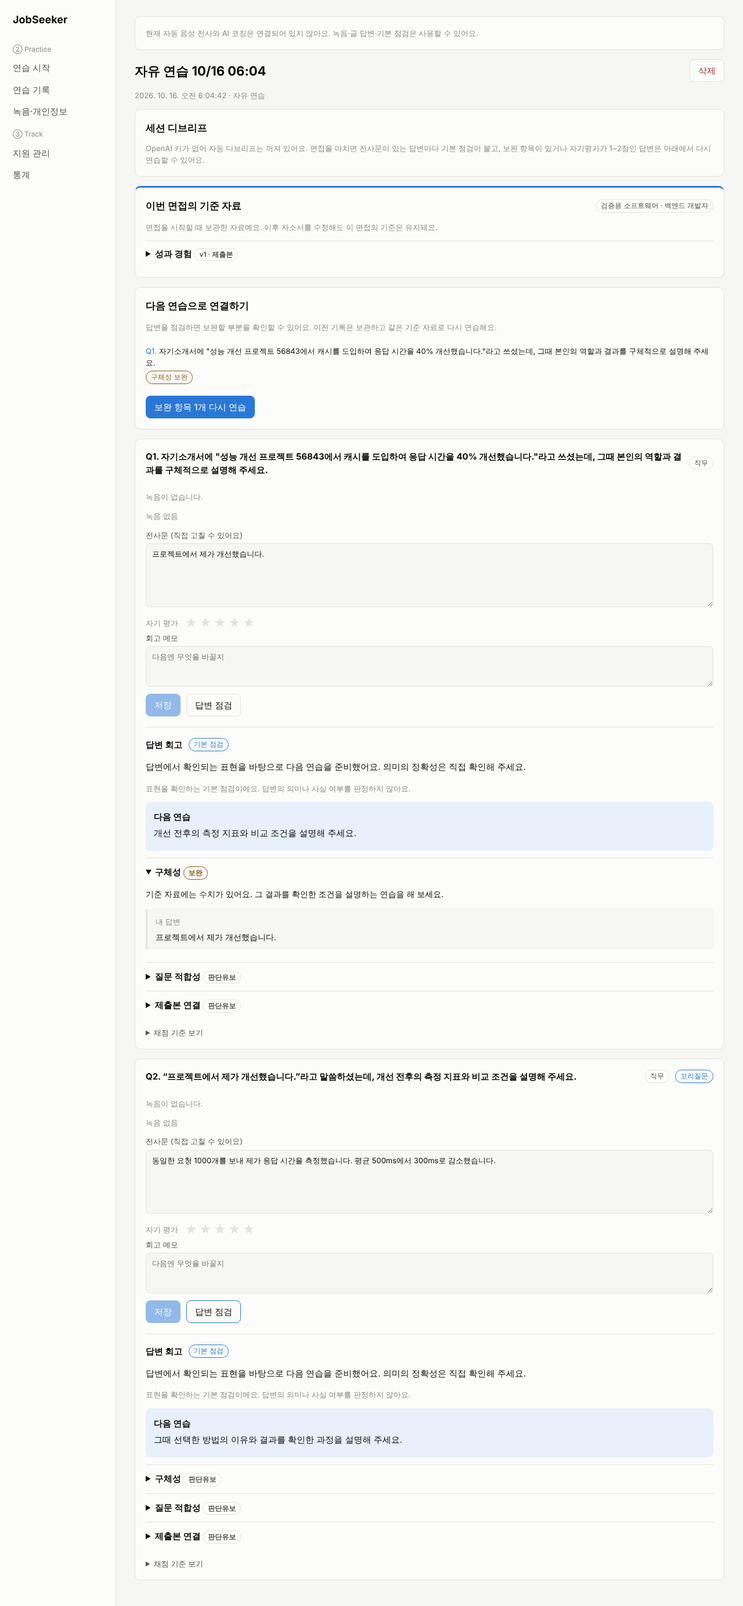
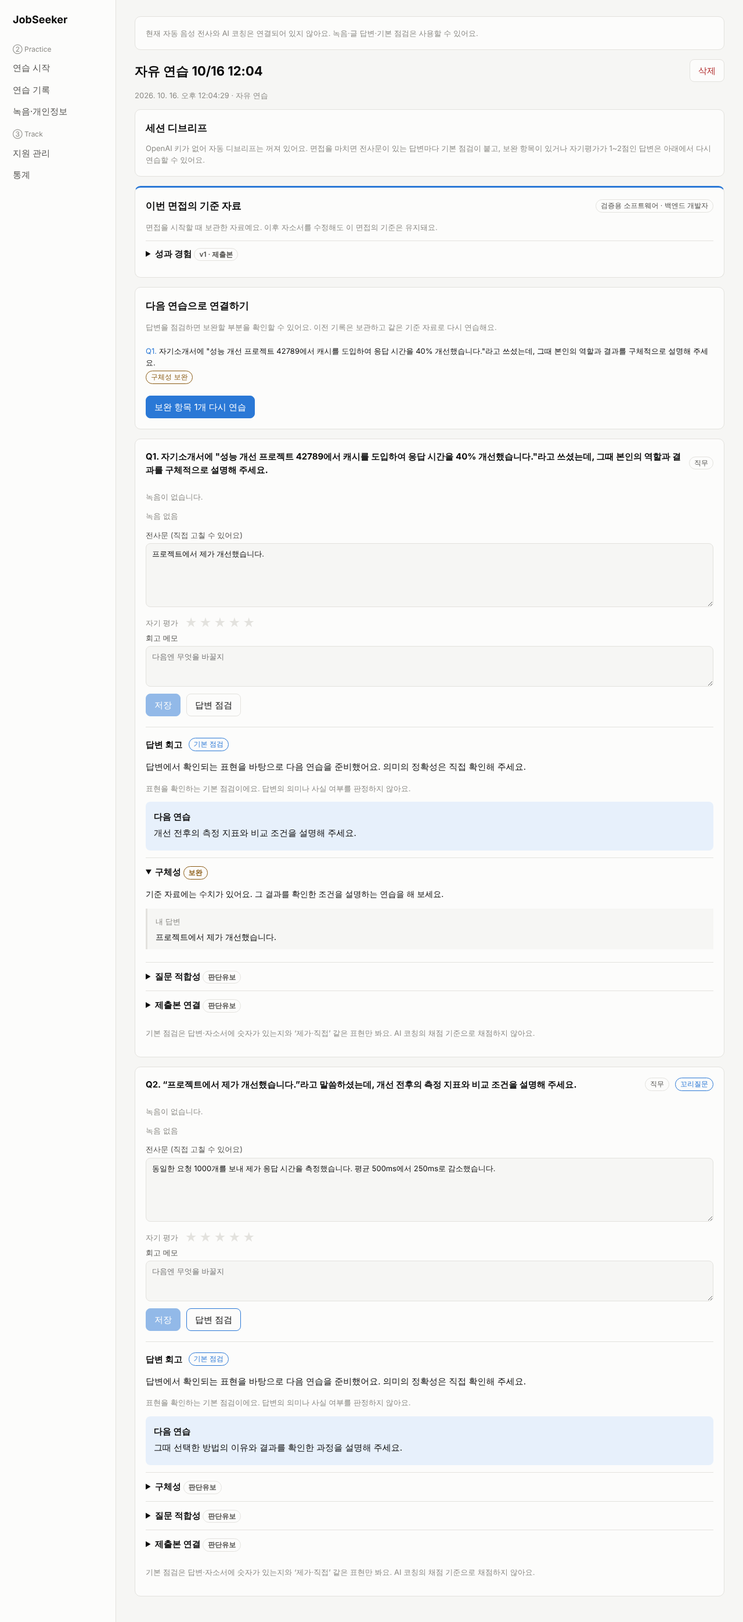
Fix web review findings 14-21 (debrief card, retry prompts, re-drill label)
- PR #2 e2e: after the auto debrief coaches the follow-up answer, edit its
  transcript and require 답변 점검 to send POST /coach (200) and bring the
  panel back with the edited quote
- Audio 404: '원본 녹음은 삭제됐어요' only when the server says so,
  otherwise '녹음 파일을 찾지 못했어요'
- Runner: clear the re-transcribe consent panel on the next question or
  follow-up, show it only while the recording exists, and resync the answer
  when a retry fails (e.g. 404 after the recording was deleted)
- Debrief card uses /health: a session finished without a key can make its
  debrief once a key is set; without a key no make/regenerate button; a lost
  job (pending, not running) offers 다시 시도 at once and stops polling
- Re-drill button keeps '보완 항목 N개' only when every picked answer has
  보완, otherwise '답변 N개 다시 연습'
- Basic-check panels drop the AI rubric and τ note for a one-line note
- STT label after deletion: '음성 인식 실패 · 원본 녹음 삭제됨'
- README and PR #2 review screenshots updated to match

Claude-Session: https://claude.ai/code/session_015FdKbTJQj9szU7weV3s6cw

diff --git a/web/src/pages/SessionReview.tsx b/web/src/pages/SessionReview.tsx
@@ -14,6 +14,13 @@ const POLL_GIVE_UP_MS = 120_000;
 /** 자동 삭제까지 남은 날짜(올림) */
 const daysLeft = (iso: string) => Math.ceil((new Date(iso).getTime() - Date.now()) / 86_400_000);
 
+/** 음성 인식 상태. 전사하지 못한 녹음의 원본이 없으면 다시 시도할 수 없으니 '재시도 필요'라고 하지 않는다 */
+function sttLabel(a: PracticeAnswer) {
+  if (a.audio_available || (a.stt_status !== "failed" && a.stt_status !== "unavailable")) return STT_LABEL[a.stt_status];
+  const what = a.stt_status === "failed" ? "음성 인식 실패" : "자동 전사 안 됨";
+  return a.audio_deleted_at ? `${what} · 원본 녹음 삭제됨` : what;
+}
+
 function AnswerCard({ a, context, rubric, onChange, onReload }: {
   a: PracticeAnswer;
   context: Context | null;
@@ -105,12 +112,13 @@ function AnswerCard({ a, context, rubric, onChange, onReload }: {
         <p className="muted small">녹음이 없습니다.</p>
       )}
       <div className="row small muted">
-        <span>{STT_LABEL[a.stt_status]}</span>
+        <span>{sttLabel(a)}</span>
         {a.duration_sec != null && <span>· {Math.round(a.duration_sec)}초</span>}
         {cpm != null && <span>· 분당 약 {cpm}자</span>}
         {a.audio_available && (a.stt_status === "failed" || a.stt_status === "unavailable") && <button disabled={busy} onClick={retranscribe}>음성 인식 다시 시도</button>}
       </div>
-      {needConsent && (
+      {/* 다시 불러온 답변에 원본이 없으면(그 사이 지움) 동의해도 다시 전사할 수 없으니 동의를 묻지 않는다 */}
+      {needConsent && a.audio_available && (
         <ConsentPanel
           retentionDays={needConsent.retention_days}
           initialKeepAudio={needConsent.keep_audio}
@@ -155,19 +163,31 @@ function AnswerCard({ a, context, rubric, onChange, onReload }: {
 }
 
 /** 세션을 마치면 자동으로 만드는 디브리프(답변 코칭 위에서). 키가 없으면 기본 점검만 돈다. */
-function DebriefCard({ s, gaveUp, busy, err, onDebrief, onRetry }: {
+function DebriefCard({ s, ai, gaveUp, busy, err, onDebrief, onRetry }: {
   s: PracticeSession;
+  /** 지금 서버에 OpenAI 키가 있는가(/health). 아직 모르면 null이고, 그때는 저장된 상태만 보고 판단한다 */
+  ai: boolean | null;
   gaveUp: boolean;
   busy: boolean;
   err: string | null;
   onDebrief: () => void;
-  /** 오래 걸려 확인을 멈춘 뒤의 '다시 시도' */
+  /** 작업이 사라졌거나 오래 걸려 확인을 멈춘 뒤의 '다시 시도' */
   onRetry: () => void;
 }) {
   const d = s.debrief;
   const status = s.debrief_status;
   const hasTranscript = s.answers.some((a) => a.transcript?.trim());
   const hasCoaching = s.answers.some((a) => a.coaching_report);
+  // 저장된 'unavailable'은 마칠 때 키가 없었다는 뜻일 뿐이다. 지금 키가 있으면 만들 수 있고, 지금 키가 없으면 어떤 상태든 만들 수 없다
+  const noKey = ai === false || (ai === null && status === "unavailable");
+  // 'pending'인데 서버가 도는 작업이 없다고 하면 작업이 사라진 것(서버 재시작 등)이다: 기다리게 하지 않고 바로 다시 시도를 보인다
+  const lost = status === "pending" && !s.debrief_running;
+  const noKeyText = (
+    <p className="muted small" style={{ margin: 0 }}>
+      OpenAI 키가 없어 자동 디브리프는 꺼져 있어요. 면접을 마치면 전사문이 있는 답변마다 기본 점검이 붙고, 보완 항목이 있거나 자기평가가 1~2점인
+      답변은 아래에서 다시 연습할 수 있어요.
+    </p>
+  );
 
   return (
     <section className="card debrief-card">
@@ -177,9 +197,9 @@ function DebriefCard({ s, gaveUp, busy, err, onDebrief, onRetry }: {
       </div>
       <div className="spacer" />
       {status === "pending" &&
-        (gaveUp ? (
+        (lost || gaveUp ? (
           <div className="row">
-            <span className="small muted grow">디브리프가 오래 걸리고 있어요.</span>
+            <span className="small muted grow">{lost ? "디브리프 작업이 중간에 멈췄어요." : "디브리프가 오래 걸리고 있어요."}</span>
             <button disabled={busy} onClick={onRetry}>다시 시도</button>
           </div>
         ) : (
@@ -214,29 +234,40 @@ function DebriefCard({ s, gaveUp, busy, err, onDebrief, onRetry }: {
             </>
           )}
           <div className="row">
-            <span className="small muted grow">AI 요약은 참고용이에요. 답변을 고쳤다면 다시 만들어 보세요.</span>
-            <button className="small" disabled={busy} onClick={onDebrief}>다시 만들기</button>
+            {noKey ? (
+              <span className="small muted grow">AI 요약은 참고용이에요. 지금은 OpenAI 키가 없어 다시 만들 수 없어요.</span>
+            ) : (
+              <>
+                <span className="small muted grow">AI 요약은 참고용이에요. 답변을 고쳤다면 다시 만들어 보세요.</span>
+                <button className="small" disabled={busy} onClick={onDebrief}>다시 만들기</button>
+              </>
+            )}
           </div>
         </>
       )}
-      {status === "failed" && (
-        <div className="row">
-          <span className="err grow">디브리프를 만들지 못했어요.{hasCoaching && " 답변 코칭 결과는 아래 답변에 남아 있어요."}</span>
-          <button disabled={busy} onClick={onDebrief}>다시 만들기</button>
-        </div>
-      )}
-      {status === "unavailable" && (
-        <>
-          <p className="muted small" style={{ margin: 0 }}>
-            OpenAI 키가 없어 자동 디브리프는 꺼져 있어요. 면접을 마치면 전사문이 있는 답변마다 기본 점검이 붙고, 보완 항목이 있거나 자기평가가 1~2점인
-            답변은 아래에서 다시 연습할 수 있어요.
-          </p>
-          {s.debrief_running && !gaveUp && <p className="muted small" role="status">답변을 기본 점검하는 중이에요…</p>}
-        </>
-      )}
-      {status === "none" &&
-        (hasTranscript ? (
-          <button disabled={busy} onClick={onDebrief}>디브리프 만들기</button>
+      {status === "failed" &&
+        (noKey ? (
+          <>
+            <p className="err" style={{ marginTop: 0 }}>디브리프를 만들지 못했어요.{hasCoaching && " 답변 코칭 결과는 아래 답변에 남아 있어요."}</p>
+            {noKeyText}
+          </>
+        ) : (
+          <div className="row">
+            <span className="err grow">디브리프를 만들지 못했어요.{hasCoaching && " 답변 코칭 결과는 아래 답변에 남아 있어요."}</span>
+            <button disabled={busy} onClick={onDebrief}>다시 만들기</button>
+          </div>
+        ))}
+      {(status === "unavailable" || status === "none") &&
+        (noKey ? (
+          <>
+            {noKeyText}
+            {s.debrief_running && !gaveUp && <p className="muted small" role="status">답변을 기본 점검하는 중이에요…</p>}
+          </>
+        ) : hasTranscript ? (
+          <div className="row">
+            {status === "unavailable" && <span className="small muted grow">면접을 마칠 때 OpenAI 키가 없어 디브리프를 만들지 않았어요.</span>}
+            <button disabled={busy} onClick={onDebrief}>디브리프 만들기</button>
+          </div>
         ) : (
           <p className="muted small" style={{ margin: 0 }}>답변이 생기면 디브리프를 만들 수 있어요.</p>
         ))}
@@ -252,6 +283,7 @@ export default function SessionReview() {
   const [err, setErr] = useState<string | null>(null);
   const [busy, setBusy] = useState(false);
   const [rubric, setRubric] = useState<CoachingRubric | null>(null);
+  const [ai, setAi] = useState<boolean | null>(null);
   const [gaveUp, setGaveUp] = useState(false);
   const [cardBusy, setCardBusy] = useState(false);
   const [cardErr, setCardErr] = useState<string | null>(null);
@@ -281,10 +313,13 @@ export default function SessionReview() {
 
   useEffect(() => {
     api.rubric().then(setRubric).catch(() => {});
+    // 디브리프를 만들 수 있는지는 저장된 상태가 아니라 지금 키가 있는지로 정한다
+    api.health().then((h) => setAi(h.openai)).catch(() => {});
   }, []);
 
-  // 답변 점검·디브리프 작업이 도는 동안 2.5초마다 확인하고, 2분이 지나면 멈춘다
-  const waiting = s?.debrief_status === "pending" || !!s?.debrief_running;
+  // 답변 점검·디브리프 작업이 도는 동안 2.5초마다 확인하고, 2분이 지나면 멈춘다.
+  // 'pending'이어도 서버가 도는 작업이 없다고 하면(작업이 사라짐) 기다리지 않는다: 카드가 바로 '다시 시도'를 보인다
+  const waiting = !!s?.debrief_running;
   useEffect(() => {
     if (!waiting || gaveUp) return;
     const until = Date.now() + POLL_GIVE_UP_MS;
@@ -322,8 +357,8 @@ export default function SessionReview() {
       apply(await api.debrief(id));
       setGaveUp(false);
     });
-  // 확인을 멈춘 뒤 '다시 시도': 먼저 지금 상태를 다시 확인한다. 작업이 아직 돌고 있으면(마지막 진행 신호가 5분 안) 재생성을 요청하지 않고
-  // 확인만 이어 가고, 'pending'인데 작업이 사라졌을 때(서버 재시작 등)만 다시 만들기를 요청한다.
+  // '다시 시도'(작업이 사라졌거나 확인을 멈춘 뒤): 먼저 지금 상태를 다시 확인한다. 작업이 아직 돌고 있으면(마지막 진행 신호가 5분 안)
+  // 재생성을 요청하지 않고 확인만 이어 가고, 'pending'인데 작업이 사라졌을 때(서버 재시작 등)만 다시 만들기를 요청한다.
   const retryDebrief = () =>
     cardAct(async () => {
       const cur = await api.session(id);
@@ -356,6 +391,8 @@ export default function SessionReview() {
   // 원본 녹음은 전사가 끝나면 지워질 수 있으니 녹음 여부는 recorded_at으로 본다
   const remaining = s.answers.filter((a) => !a.recorded_at && !a.transcript?.trim()).length;
   const weak = s.redrill.length;
+  // '보완 항목 N개'(PR #2 문구)는 고른 답변마다 코칭의 보완이 있을 때만 맞다. 자기평가만으로 고른 답변이 있으면 답변 수로 말한다
+  const allNeedWork = s.redrill.every((w) => w.reasons.some((r) => r.endsWith("보완")));
 
   return (
     <>
@@ -366,7 +403,7 @@ export default function SessionReview() {
       </div>
       <p className="muted small">{new Date(s.created_at).toLocaleString("ko-KR")} · {s.mode === "mock" ? `모의시험 (준비 ${s.prep_sec}초 / 답변 ${s.answer_sec}초)` : "자유 연습"}</p>
       {err && <p className="err">{err}</p>}
-      <DebriefCard s={s} gaveUp={gaveUp} busy={cardBusy} err={cardErr} onDebrief={makeDebrief} onRetry={retryDebrief} />
+      <DebriefCard s={s} ai={ai} gaveUp={gaveUp} busy={cardBusy} err={cardErr} onDebrief={makeDebrief} onRetry={retryDebrief} />
       <InterviewContext context={s.context_snapshot} />
       <section className="card review-summary">
         <h2>다음 연습으로 연결하기</h2>
@@ -391,7 +428,7 @@ export default function SessionReview() {
           try { const drill = await api.redrill(s.id); nav(`/practice/sessions/${drill.id}/run`); }
           catch (e) { setErr((e as Error).message); }
           finally { setBusy(false); }
-        }}>보완 항목 {weak}개 다시 연습</button>
+        }}>{allNeedWork ? `보완 항목 ${weak}개 다시 연습` : `답변 ${weak}개 다시 연습`}</button>
       </section>
       {s.answers.map((a) => (
         <AnswerCard key={a.id} a={a} context={s.context_snapshot} rubric={rubric} onChange={onAnswer} onReload={reload} />

diff --git a/web/src/pages/SessionRunner.tsx b/web/src/pages/SessionRunner.tsx
@@ -114,6 +114,7 @@ export default function SessionRunner() {
     setErr(null);
     setDraft("");
     setUploadFailed(false);
+    setConsentFor(null); // 앞 질문에서 띄운 동의 패널(다시 전사 등)은 이 질문과 상관없다
     try { if (inputMode === "audio") await ensureStream(); } catch { return; }
     if (mock && session.prep_sec > 0) {
       deadline.current = performance.now() + session.prep_sec * 1000;
@@ -149,6 +150,11 @@ export default function SessionRunner() {
     } catch (e) {
       if (e instanceof ApiError && e.status === 403) askConsent("transcribe");
       else setErr((e as Error).message);
+      // 서버 상태로 다시 맞춘다: 그 사이 원본이 지워졌으면(404) '녹음은 보관되어 있어요'와 다시 시도 버튼을 내린다
+      api.session(id).then((s) => {
+        const cur = s.answers.find((x) => x.id === answer.id);
+        if (cur) updateAnswer(cur);
+      }).catch(() => {});
     }
     finally { processing.current = false; setBusy(false); }
   };
@@ -178,6 +184,7 @@ export default function SessionRunner() {
         return;
       }
       setDraft("");
+      setConsentFor(null); // 앞 답변의 동의 패널을 다음 질문에 남기지 않는다
       setPhase("ready");
     } catch (e) { setErr((e as Error).message); }
     finally { processing.current = false; setBusy(false); }
@@ -217,9 +224,11 @@ export default function SessionRunner() {
             {prefs && ` 원본은 ${prefs.retention_days}일이 지나면 자동으로 지워져요.`}</p>
           <button disabled={busy || uploadFailed} onClick={retranscribe}>음성 인식 다시 시도</button>
         </div>}
-        {answer.recorded_at && answer.audio_deleted_at && <p className="small muted">원본 녹음은 지웠어요. 전사문만 남겨요.</p>}
+        {answer.recorded_at && answer.audio_deleted_at && <p className="small muted">
+          {answer.transcript?.trim() ? "원본 녹음은 지웠어요. 전사문만 남겨요." : "원본 녹음은 지웠어요. 답변을 직접 입력해 주세요."}</p>}
         {consentFor === "upload" && uploadFailed && consentPanel("녹음을 저장하려면 먼저 동의가 필요해요. 동의하면 방금 녹음을 저장해요.", "동의하고 녹음 저장", () => void finishAnswer())}
-        {consentFor === "transcribe" && consentPanel("녹음을 다시 전사하려면 먼저 녹음 동의가 필요해요.", "동의하고 다시 전사", () => void retranscribe())}
+        {/* 다시 전사할 원본이 있을 때만 묻는다(글 답변이거나 원본을 지웠으면 동의해도 할 일이 없다) */}
+        {consentFor === "transcribe" && answer.audio_available && consentPanel("녹음을 다시 전사하려면 먼저 녹음 동의가 필요해요.", "동의하고 다시 전사", () => void retranscribe())}
         <label>답변 확인 · 전사문을 고칠 수 있어요<textarea disabled={busy} value={draft} onChange={(e) => setDraft(e.target.value)} placeholder="녹음의 전사문이 없으면 답변을 직접 입력해 주세요." /></label>
         <p className="small muted">확인한 답변을 저장하고 다음 단계로 진행해요.</p>
         {uploadFailed && consentFor !== "upload" && <button onClick={finishAnswer}>녹음 저장 다시 시도</button>}

diff --git a/web/e2e/coaching.spec.ts b/web/e2e/coaching.spec.ts
@@ -49,8 +49,22 @@ test("submitted source → text answer → follow-up → evidence review → foc
   await page.getByRole("button", { name: "면접 마치고 회고 보기" }).click();
   await expect(page.locator(".coaching-panel").first()).toContainText("기본 점검");
   await expect(page.locator(".criterion").first()).toContainText("프로젝트에서 제가 개선했습니다.");
-  await page.getByRole("button", { name: "답변 점검", exact: true }).last().click();
+  // 면접을 마치면 자동 디브리프가 아직 점검하지 않은 꼬리질문 답변도 기본 점검한다(P0). 그 작업이 끝난 뒤 이 답변의
+  // 전사문을 고쳐 보고서를 지우면, 두 번째 패널은 '답변 점검' 클릭(POST /coach)에서만 다시 생길 수 있다
   await expect(page.locator(".coaching-panel")).toHaveCount(2);
+  const sessionId = page.url().split("/").at(-1);
+  await expect.poll(async () => (await (await request.get(`${API}/practice/sessions/${sessionId}`)).json()).debrief_running).toBe(false);
+  const last = page.locator("section.card[id^=answer-]").last();
+  const revised = "동일한 요청 1000개를 보내 제가 응답 시간을 측정했습니다. 평균 500ms에서 250ms로 감소했습니다.";
+  await last.getByLabel("전사문 (직접 고칠 수 있어요)").fill(revised);
+  await last.getByRole("button", { name: "저장", exact: true }).click();
+  await expect(last.locator(".coaching-panel")).toHaveCount(0);
+  await expect(page.locator(".coaching-panel")).toHaveCount(1);
+  const coached = page.waitForResponse((r) => r.request().method() === "POST" && /\/practice\/answers\/[^/]+\/coach$/.test(r.url()));
+  await page.getByRole("button", { name: "답변 점검", exact: true }).last().click();
+  expect((await coached).status()).toBe(200);
+  await expect(page.locator(".coaching-panel")).toHaveCount(2);
+  await expect(last.locator(".coaching-panel .criterion").first()).toContainText(revised);
   await expect(page.getByRole("button", { name: "보완 항목 1개 다시 연습" })).toBeEnabled();
   expect(await page.evaluate(() => document.documentElement.scrollWidth <= innerWidth)).toBeTruthy();
   await page.screenshot({ path: `../docs/screenshots/coaching-review-${testInfo.project.name}.png`, fullPage: true });

diff --git a/web/src/api.ts b/web/src/api.ts
@@ -104,7 +104,12 @@ export const api = {
   },
   audioUrl: async (answerId: string) => {
     const res = await fetch(`${BASE}/practice/answers/${answerId}/audio`, { headers: await headers() });
-    if (!res.ok) throw new ApiError(res.status, res.status === 404 ? "원본 녹음은 삭제됐어요" : "녹음을 불러오지 못했습니다");
+    if (!res.ok) {
+      // 404는 두 경우다: 원본을 지웠다(서버가 삭제 기록을 보고 알린다) / 지우지 않았는데 저장소에서 파일을 찾지 못했다
+      const detail = await res.json().then((j) => j.detail, () => null);
+      const deleted = "원본 녹음은 삭제됐어요";
+      throw new ApiError(res.status, res.status !== 404 ? "녹음을 불러오지 못했습니다" : detail === deleted ? deleted : "녹음 파일을 찾지 못했어요");
+    }
     return URL.createObjectURL(await res.blob());
   },
   retryTranscribe: (answerId: string) => req<PracticeAnswer>("POST", `/practice/answers/${answerId}/transcribe`),

diff --git a/web/src/components/CoachingPanel.tsx b/web/src/components/CoachingPanel.tsx
@@ -43,7 +43,9 @@ export default function CoachingPanel({ report, context, rubric }: { report: Coa
           </details>;
         })}
       </div>
-      {rubric && <RubricDetails rubric={rubric} />}
+      {/* 채점 기준(앵커)과 일치도 안내는 AI 코칭에만 해당한다. 기본 점검은 규칙으로만 본다(coaching._basic) */}
+      {report.method === "ai" && rubric && <RubricDetails rubric={rubric} />}
+      {report.method === "basic" && <p className="small muted">기본 점검은 답변·자소서에 숫자가 있는지와 ‘제가·직접’ 같은 표현만 봐요. AI 코칭의 채점 기준으로 채점하지 않아요.</p>}
     </div>
   );
 }

diff --git a/README.md b/README.md
@@ -67,9 +67,9 @@ jobseeker/
 
 - **연습 전용, 녹음 개인정보 기본값.** 실제 면접 중에 답을 띄우는 기능은 만들지 않습니다(Google·Amazon·Anthropic 등이 면접 중 AI 도움을 금지). 첫 녹음 전에 동의를 받고 서버도 동의 없는 녹음 업로드·다시 전사를 403으로 막습니다(글 답변은 동의가 필요 없음). 전사가 끝나면 원본 녹음을 바로 지우고 전사문만 남깁니다. 원본 보관은 사용자가 고를 때만 하고, 보관한 녹음과 전사하지 못한 녹음도 `AUDIO_RETENTION_DAYS`(기본 30일) 뒤 자동 삭제합니다. `/practice/settings` 화면에서 보관 설정(새 녹음과 음성 인식을 다시 시도하는 녹음에 적용), 원본 모두 지우기, 동의 철회(원본 녹음도 모두 삭제)를 할 수 있습니다. 모두 지우기와 동의 철회는 답변 기록이 가리키지 않는 내 저장소 폴더의 파일(예전 버전이 세션을 지우며 남긴 녹음 등)까지 지우고, 만료 정리는 그런 파일을 보관 기한이 지나면 지웁니다. 업로드·다시 전사 도중 동의를 철회하면 그 녹음도 지우고 403으로 답합니다(전사가 이미 끝났으면 전사문만 남김).
 - **OpenAI로 보내는 것(키가 설정된 경우만).** 음성 전사에는 원본 녹음, 답변 코칭과 꼬리질문에는 질문·답변 전사문·같은 세션의 앞선 질문과 답변·면접을 시작할 때 보관한 자소서·채용 공고·지원 회사/직무(다시 연습 세션이면 지난번 보완 항목·자기평가 점수·다음 연습 안내도), 세션 디브리프에는 질문·답변 전사문·자기평가·회고 메모·코칭 결과, 맞춤 질문 생성에는 지원 회사·직무·자소서를 보냅니다. 화면에서 쓰지 않는 예전 API `/answers/{id}/feedback`은 질문·전사문·답변 길이를 보냅니다. 목소리·감정은 분석하지 않고, 녹음은 음성 전사에만 보냅니다. 같은 내용을 동의 화면과 설정 화면에 적어 두었고, AI가 만든 답변 코칭에는 'AI 코칭', 세션 디브리프에는 'AI 생성' 표시가 붙습니다(AI 기본법 제31조 고지 의무 대비).
-- **세션 종료 자동 디브리프.** 면접을 마치면 백그라운드에서 전사문은 있지만 코칭 보고서가 없는 답변을 `/coach`와 같은 경로로 점검합니다(키가 없으면 기본 점검, 점검 중 전사문을 고친 답변은 버리고 새 전사문으로 다시 점검). 키가 있을 때만 코칭 결과·자기평가·회고 메모로 '핵심 교훈 · 다음 행동 · 주목할 순간(전사문 인용, 서버가 원문과 대조)'을 만듭니다. 키가 없으면 디브리프 상태는 `unavailable`이고 기본 점검만 붙습니다. 회고 화면은 작업이 끝날 때까지 상태를 확인하고, 실패하면 다시 만들 수 있습니다. 작업은 답변 하나를 점검할 때마다 진행 신호를 남기고 신호가 5분 넘게 끊겼을 때만 새 작업을 시작하며, 작업 중에 들어온 종료·재생성 요청은 작업이 한 바퀴 더 돌아 반영합니다. AI 호출이 실패했거나 응답이 검증을 통과하지 못해 기본 점검으로 대신한 답변은 다음 디브리프가 한 번 다시 점검하고, 코칭 보고서는 채점한 전사문의 지문을 함께 저장해 전사문이 바뀐 뒤의 옛 보고서는 없는 것으로 봅니다.
+- **세션 종료 자동 디브리프.** 면접을 마치면 백그라운드에서 전사문은 있지만 코칭 보고서가 없는 답변을 `/coach`와 같은 경로로 점검합니다(키가 없으면 기본 점검, 점검 중 전사문을 고친 답변은 버리고 새 전사문으로 다시 점검). 키가 있을 때만 코칭 결과·자기평가·회고 메모로 '핵심 교훈 · 다음 행동 · 주목할 순간(전사문 인용, 서버가 원문과 대조)'을 만듭니다. 키가 없으면 디브리프 상태는 `unavailable`이고 기본 점검만 붙습니다. 회고 화면은 작업이 끝날 때까지 상태를 확인하고, 실패하면 다시 만들 수 있습니다. 서버가 도는 작업이 없다고 하면(서버 재시작 등) 기다리지 않고 바로 '다시 시도'를 보여 줍니다. 만들기·다시 만들기는 지금 서버에 키가 있을 때만 보이며(`/health`), 키 없이 마친 세션도 키를 연결한 뒤 만들 수 있습니다. 작업은 답변 하나를 점검할 때마다 진행 신호를 남기고 신호가 5분 넘게 끊겼을 때만 새 작업을 시작하며, 작업 중에 들어온 종료·재생성 요청은 작업이 한 바퀴 더 돌아 반영합니다. AI 호출이 실패했거나 응답이 검증을 통과하지 못해 기본 점검으로 대신한 답변은 다음 디브리프가 한 번 다시 점검하고, 코칭 보고서는 채점한 전사문의 지문을 함께 저장해 전사문이 바뀐 뒤의 옛 보고서는 없는 것으로 봅니다.
 - **다시 연습 확장.** 위의 보완 항목 다시 연습이 자기평가 1~2점 답변도 담습니다(세션 순서대로 최대 20개, 초점 이름 '자기평가 n점'). 회고 요약에 다시 연습할 답변과 이유를 칩으로 보여 주고, AI 코칭에서 나온 이유에만 'AI ·'를 붙입니다.
-- **구체성의 STAR 앵커.** 세 기준(구체성·질문 적합성·제출본 연결)의 정의와 충분/보완 앵커를 `backend/app/coaching.py` 한 곳에 두고 코칭 프롬프트와 `GET /practice/rubric`이 함께 씁니다. 경험 질문의 구체성은 STAR(상황·과제가 분명한가, 팀 맥락 속 본인 몫과 판단 근거, 확인 가능한 결과·수치와 배운 점)로 봅니다. 프롬프트에는 엄격하게 채점하기, 없는 강점·사실·수치를 지어내지 않기(꼬리질문도), 말한 내용만 보기, 말버릇 무시, '우리'를 '저'로 바꾸라고 조언하지 않기를 적었습니다. 답변 회고의 '채점 기준 보기'에서 펼쳐 볼 수 있습니다. 새 보고서에는 채점 기준 버전 `2026-10-16-star`가 붙고, 예전 버전 보고서는 그대로 둡니다(다시 점검하지 않음).
+- **구체성의 STAR 앵커.** 세 기준(구체성·질문 적합성·제출본 연결)의 정의와 충분/보완 앵커를 `backend/app/coaching.py` 한 곳에 두고 코칭 프롬프트와 `GET /practice/rubric`이 함께 씁니다. 경험 질문의 구체성은 STAR(상황·과제가 분명한가, 팀 맥락 속 본인 몫과 판단 근거, 확인 가능한 결과·수치와 배운 점)로 봅니다. 프롬프트에는 엄격하게 채점하기, 없는 강점·사실·수치를 지어내지 않기(꼬리질문도), 말한 내용만 보기, 말버릇 무시, '우리'를 '저'로 바꾸라고 조언하지 않기를 적었습니다. AI 코칭 답변 회고의 '채점 기준 보기'에서 펼쳐 볼 수 있습니다(기본 점검은 이 기준으로 채점하지 않으므로 보여 주지 않고 한 줄로 알립니다). 새 보고서에는 채점 기준 버전 `2026-10-16-star`가 붙고, 예전 버전 보고서는 그대로 둡니다(다시 점검하지 않음).
 - **Postgres·로컬 DB.** 모든 id 컬럼이 Postgres에서 uuid로 바인딩되도록 고쳤습니다(전에는 Supabase Postgres에서 서버가 시작하지 못했음). 로컬 SQLite는 서버를 켤 때 빠진 컬럼을 추가하고, 예전 녹음에 녹음 시각과 보관 기한을 채웁니다. 기존 Supabase 프로젝트는 `supabase/migrations/20261015_practice_p0.sql`을 실행합니다(여러 번 실행해도 안전). uuid 형식이 아닌 id는 DB에 보내지 않고 404로 답합니다.
 - **새 환경 변수.** `AUDIO_RETENTION_DAYS`(원본 보관 기한, 기본 30), `PURGE_INTERVAL_MIN`(만료 정리 주기, 기본 60분), `OPENAI_FEEDBACK_MODEL`(세션 디브리프 요약 모델, 비우면 `OPENAI_CHAT_MODEL`), `OPENAI_BASE_URL`(OpenAI 호환 API 주소, 기본 `https://api.openai.com/v1`).
 
